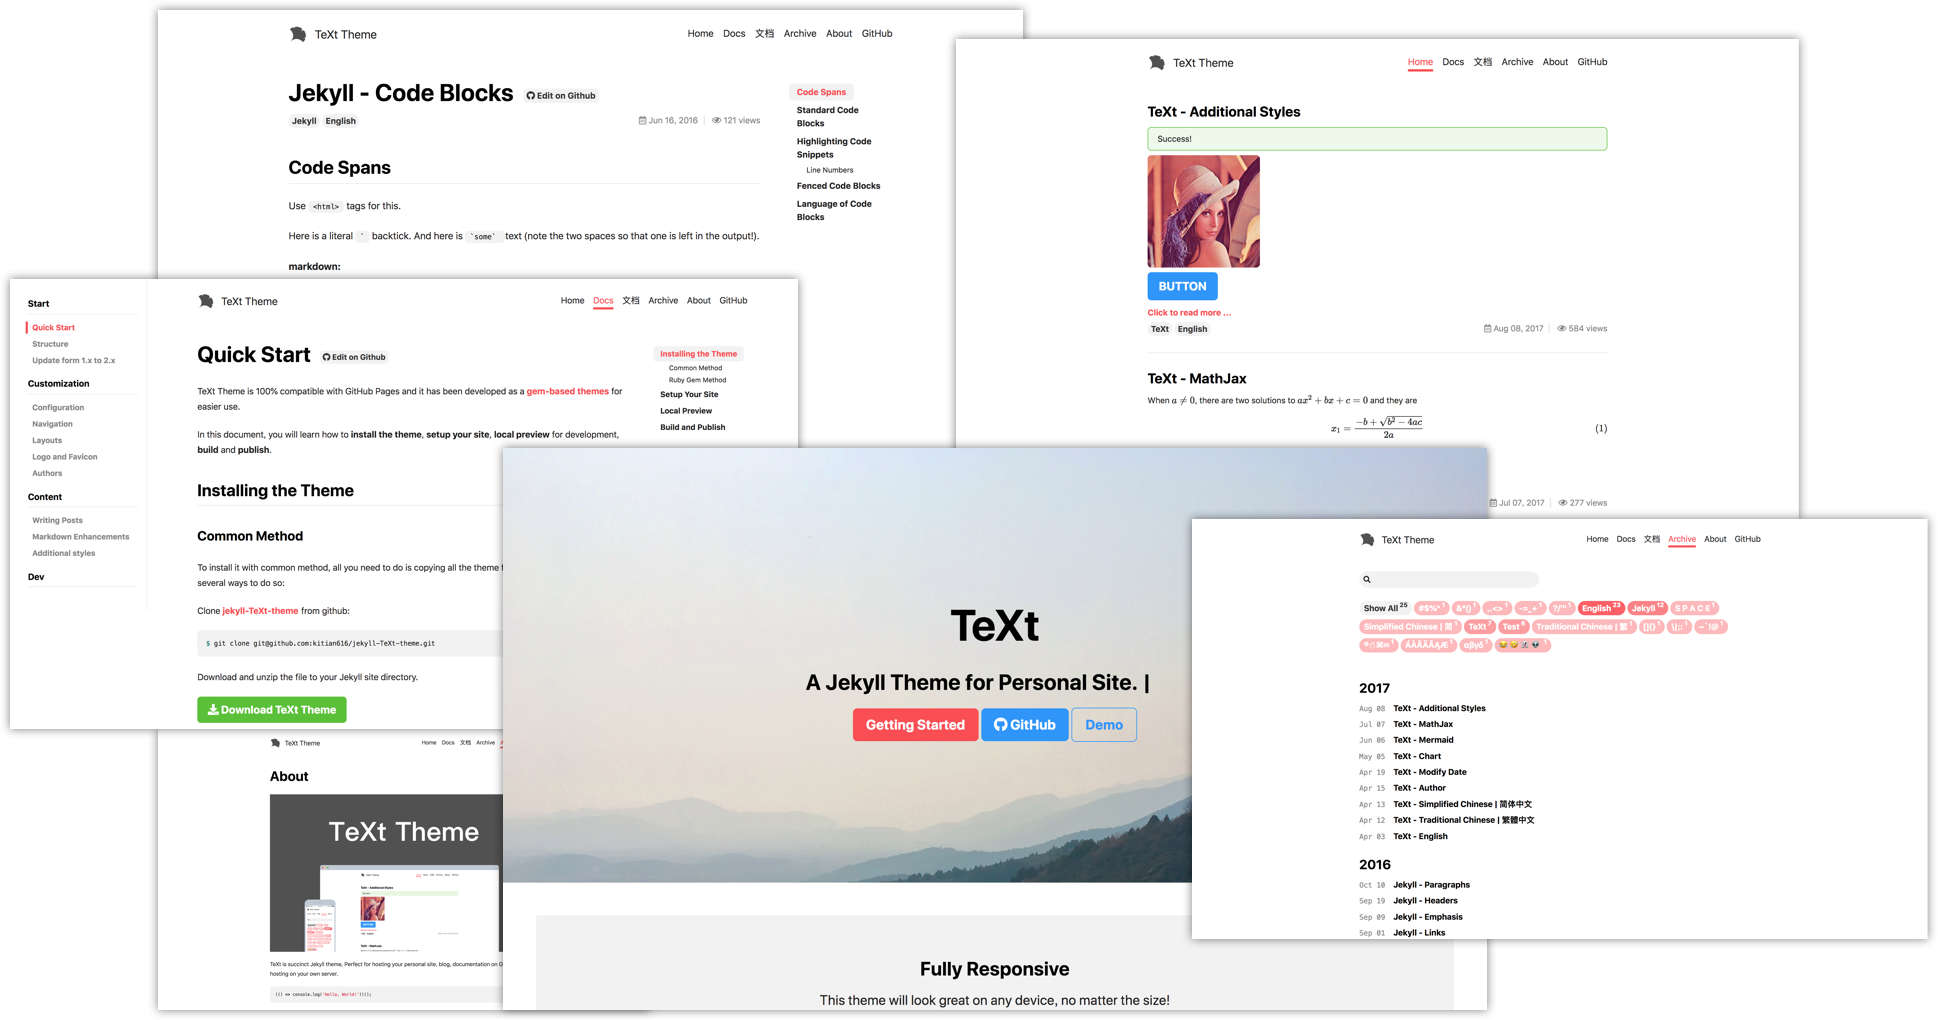
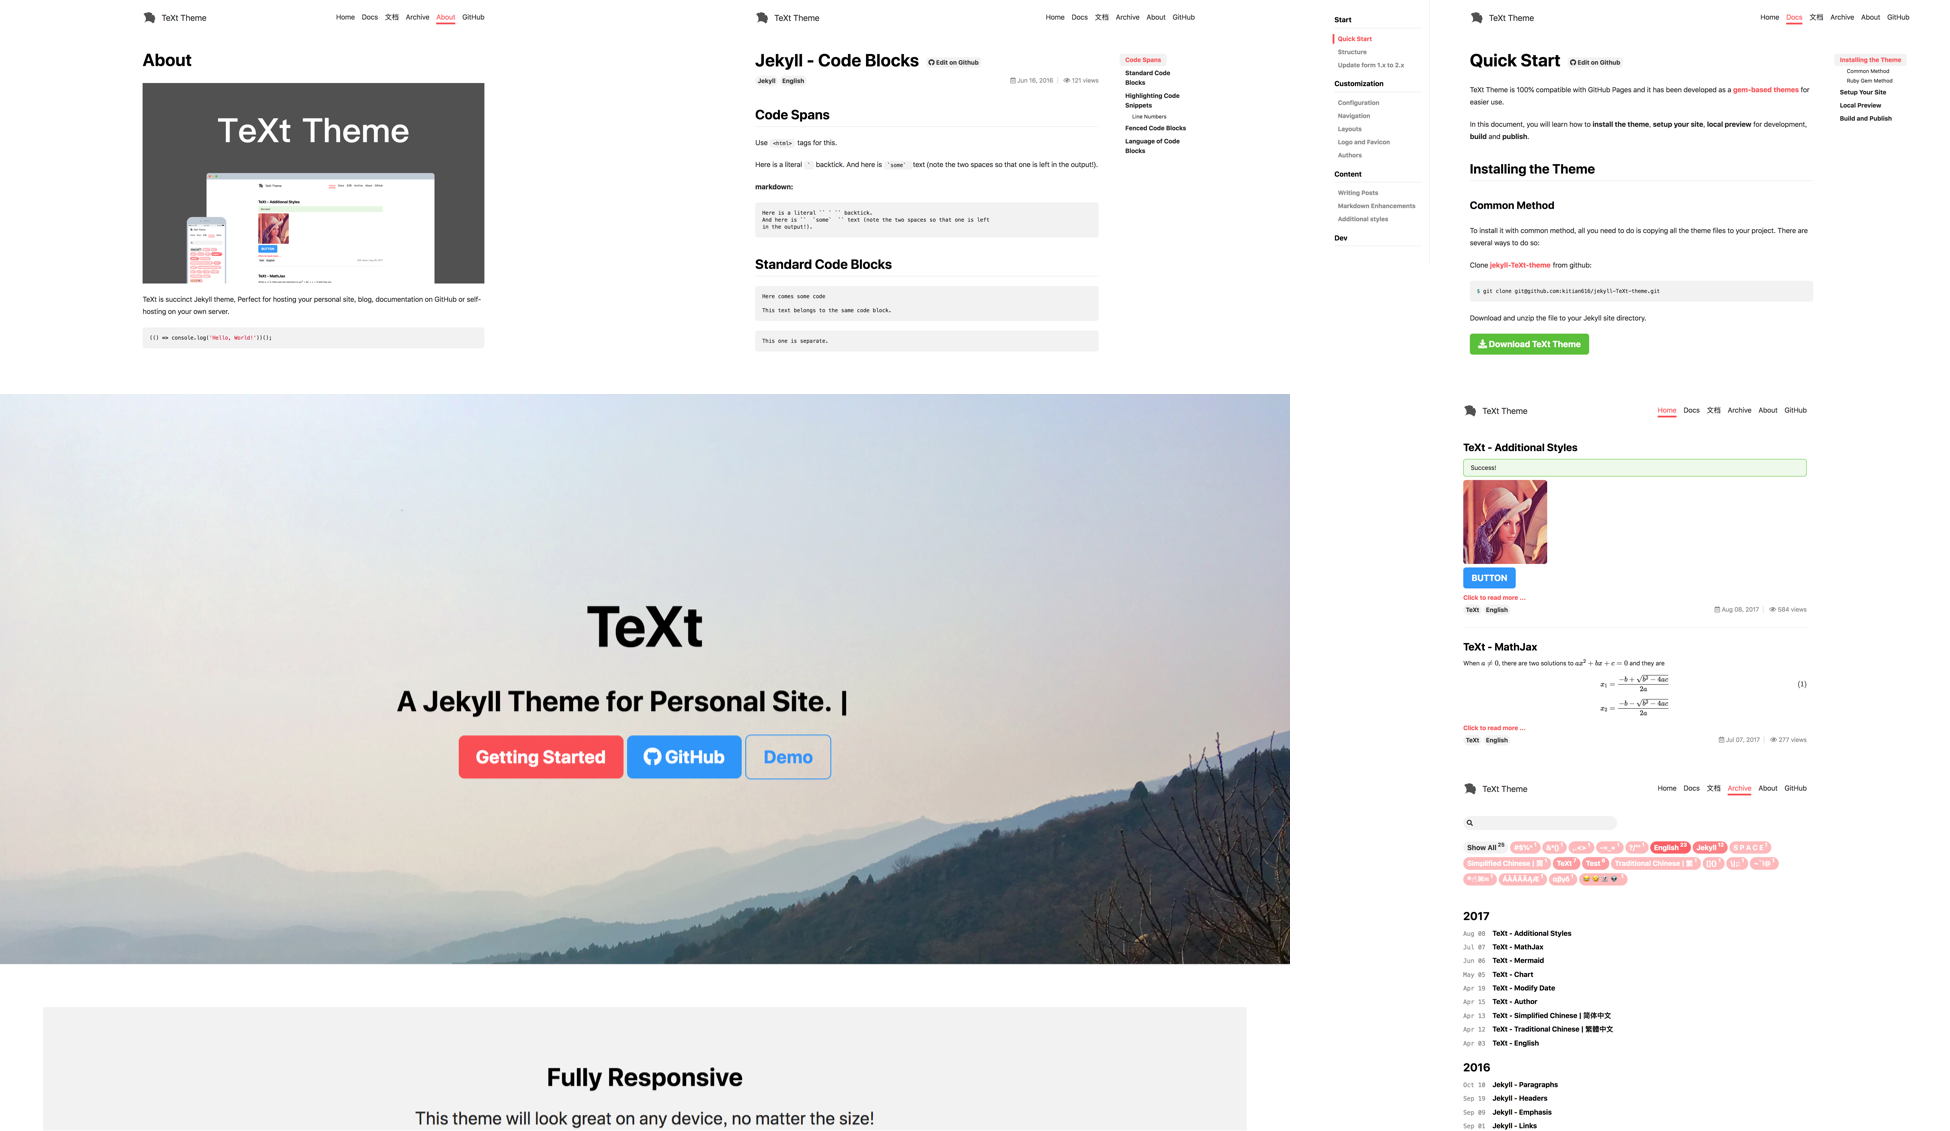
feat: update doc, landing page and copywriters

diff --git a/docs/landing.html b/docs/landing.html
@@ -11,8 +11,6 @@ data:
     - text: Getting Started
       type: primary
       url: /docs/en/quick-start
-    - text: '<i class="fab fa-github"></i> GitHub'
-      url: https://github.com/kitian616/jekyll-TeXt-theme
     - text: Demo
       type: outline-info
       url: /test/
@@ -49,6 +47,9 @@ data:
               url: /docs/en/markdown-enhancements
     - title: 100% Free
       description: Free to use however you want under the MIT License. Clone it, fork it, customize it, whatever!
+      actions:
+        - text: '<i class="fab fa-github"></i> GitHub'
+          url: https://github.com/kitian616/jekyll-TeXt-theme
     - title: Tip Me
       children:
         - title: 'WeChat <i class="fas fa-arrow-down"></i>'

diff --git a/test/_posts/2017-08-08-additional-styles.md b/test/_posts/2017-08-08-additional-styles.md
@@ -10,9 +10,34 @@ toc: true
 Success!
 {:.success}
 
-![Lenna](https://raw.githubusercontent.com/kitian616/jekyll-TeXt-theme/master/test/assets/images/lenna.jpg "Lenna_rounded"){:.rounded}
 
-[BUTTON](#){:.button.button--info.button--rounded.button--lg}
+<div class="grid">
+<div class="row">
+<div class="col-4 col-md-5 col-sm-12" markdown="1">
+![Lenna](https://raw.githubusercontent.com/kitian616/jekyll-TeXt-theme/master/test/assets/images/lenna.jpg "Lenna_rounded"){:.rounded}
+</div>
+<div class="col-4 col-md-5 col-sm-12" markdown="1">
+![Lenna](https://raw.githubusercontent.com/kitian616/jekyll-TeXt-theme/master/test/assets/images/lenna.jpg "Lenna_rounded"){:.circle.shadow}
+</div>
+</div>
+</div>
+
+<div class="grid">
+<div class="row">
+<div class="col-2 col-md-4 col-sm-6">
+<div class="button button--primary button--pill my-2"><i class="fas fa-space-shuttle"></i> BUTTON</div>
+</div>
+<div class="col-2 col-md-4 col-sm-6">
+<div class="button button--outline-info button--pill my-2"><i class="fas fa-space-shuttle"></i> BUTTON</div>
+</div>
+<div class="col-2 col-md-4 col-sm-6">
+<div class="button button--success button--rounded my-2"><i class="fas fa-user-astronaut"></i> BUTTON</div>
+</div>
+<div class="col-2 col-md-4 col-sm-6">
+<div class="button button--warning button--rounded my-2"><i class="fas fa-user-astronaut"></i> BUTTON</div>
+</div>
+</div>
+</div>
 
 <!--more-->
 
@@ -67,38 +92,238 @@ Error Text.
 
 ## Button
 
-| Primary | Secondary | Success | Info | Warning | Error |
-| ---- | ---- | ---- | ---- | ---- | ---- |
-| [BUTTON](#){:.button.button--primary.button--pill} | [BUTTON](#){:.button.button--secondary.button--pill} | [BUTTON](#){:.button.button--success.button--pill} | [BUTTON](#){:.button.button--info.button--pill} | [BUTTON](#){:.button.button--warning.button--pill} | [BUTTON](#){:.button.button--error.button--pill} |
+<div class="grid">
+<div class="row">
+<div style="text-align: center;" class="col-2 col-md-4 col-sm-6">
+<div class="mt-3"><strong>Primary</strong></div>
+<div class="button button--primary button--pill my-2">BUTTON</div>
+</div>
+<div style="text-align: center;" class="col-2 col-md-4 col-sm-6">
+<div class="mt-3"><strong>Secondary</strong></div>
+<div class="button button--secondary button--pill my-2">BUTTON</div>
+</div>
+<div style="text-align: center;" class="col-2 col-md-4 col-sm-6">
+<div class="mt-3"><strong>Success</strong></div>
+<div class="button button--success button--pill my-2">BUTTON</div>
+</div>
+<div style="text-align: center;" class="col-2 col-md-4 col-sm-6">
+<div class="mt-3"><strong>Info</strong></div>
+<div class="button button--info button--pill my-2">BUTTON</div>
+</div>
+<div style="text-align: center;" class="col-2 col-md-4 col-sm-6">
+<div class="mt-3"><strong>Warning</strong></div>
+<div class="button button--warning button--pill my-2">BUTTON</div>
+</div>
+<div style="text-align: center;" class="col-2 col-md-4 col-sm-6">
+<div class="mt-3"><strong>Error</strong></div>
+<div class="button button--error button--pill my-2">BUTTON</div>
+</div>
+</div>
+</div>
 
-| Primary | Secondary | Success | Info | Warning | Error |
-| ---- | ---- | ---- | ---- | ---- | ---- |
-| [BUTTON](#){:.button.button--outline-primary.button--pill} | [BUTTON](#){:.button.button--outline-secondary.button--pill} | [BUTTON](#){:.button.button--outline-success.button--pill} | [BUTTON](#){:.button.button--outline-info.button--pill} | [BUTTON](#){:.button.button--outline-warning.button--pill} | [BUTTON](#){:.button.button--outline-error.button--pill} |
+<div class="grid">
+<div class="row">
+<div style="text-align: center;" class="col-2 col-md-4 col-sm-6">
+<div class="mt-3"><strong>Primary</strong></div>
+<div class="button button--outline-primary button--pill my-2">BUTTON</div>
+</div>
+<div style="text-align: center;" class="col-2 col-md-4 col-sm-6">
+<div class="mt-3"><strong>Secondary</strong></div>
+<div class="button button--outline-secondary button--pill my-2">BUTTON</div>
+</div>
+<div style="text-align: center;" class="col-2 col-md-4 col-sm-6">
+<div class="mt-3"><strong>Success</strong></div>
+<div class="button button--outline-success button--pill my-2">BUTTON</div>
+</div>
+<div style="text-align: center;" class="col-2 col-md-4 col-sm-6">
+<div class="mt-3"><strong>Info</strong></div>
+<div class="button button--outline-info button--pill my-2">BUTTON</div>
+</div>
+<div style="text-align: center;" class="col-2 col-md-4 col-sm-6">
+<div class="mt-3"><strong>Warning</strong></div>
+<div class="button button--outline-warning button--pill my-2">BUTTON</div>
+</div>
+<div style="text-align: center;" class="col-2 col-md-4 col-sm-6">
+<div class="mt-3"><strong>Error</strong></div>
+<div class="button button--outline-error button--pill my-2">BUTTON</div>
+</div>
+</div>
+</div>
 
-| Primary | Secondary | Success | Info | Warning | Error |
-| ---- | ---- | ---- | ---- | ---- | ---- |
-| [BUTTON](#){:.button.button--primary.button--rounded} | [BUTTON](#){:.button.button--secondary.button--rounded} | [BUTTON](#){:.button.button--success.button--rounded} | [BUTTON](#){:.button.button--info.button--rounded} | [BUTTON](#){:.button.button--warning.button--rounded} | [BUTTON](#){:.button.button--error.button--rounded} |
+<div class="grid">
+<div class="row">
+<div style="text-align: center;" class="col-2 col-md-4 col-sm-6">
+<div class="mt-3"><strong>Primary</strong></div>
+<div class="button button--primary button--rounded my-2">BUTTON</div>
+</div>
+<div style="text-align: center;" class="col-2 col-md-4 col-sm-6">
+<div class="mt-3"><strong>Secondary</strong></div>
+<div class="button button--secondary button--rounded my-2">BUTTON</div>
+</div>
+<div style="text-align: center;" class="col-2 col-md-4 col-sm-6">
+<div class="mt-3"><strong>Success</strong></div>
+<div class="button button--success button--rounded my-2">BUTTON</div>
+</div>
+<div style="text-align: center;" class="col-2 col-md-4 col-sm-6">
+<div class="mt-3"><strong>Info</strong></div>
+<div class="button button--info button--rounded my-2">BUTTON</div>
+</div>
+<div style="text-align: center;" class="col-2 col-md-4 col-sm-6">
+<div class="mt-3"><strong>Warning</strong></div>
+<div class="button button--warning button--rounded my-2">BUTTON</div>
+</div>
+<div style="text-align: center;" class="col-2 col-md-4 col-sm-6">
+<div class="mt-3"><strong>Error</strong></div>
+<div class="button button--error button--rounded my-2">BUTTON</div>
+</div>
+</div>
+</div>
 
-| Primary | Secondary | Success | Info | Warning | Error |
-| ---- | ---- | ---- | ---- | ---- | ---- |
-| [BUTTON](#){:.button.button--outline-primary.button--rounded} | [BUTTON](#){:.button.button--outline-secondary.button--rounded} | [BUTTON](#){:.button.button--outline-success.button--rounded} | [BUTTON](#){:.button.button--outline-info.button--rounded} | [BUTTON](#){:.button.button--outline-warning.button--rounded} | [BUTTON](#){:.button.button--outline-error.button--rounded} |
+<div class="grid">
+<div class="row">
+<div style="text-align: center;" class="col-2 col-md-4 col-sm-6">
+<div class="mt-3"><strong>Primary</strong></div>
+<div class="button button--outline-primary button--rounded my-2">BUTTON</div>
+</div>
+<div style="text-align: center;" class="col-2 col-md-4 col-sm-6">
+<div class="mt-3"><strong>Secondary</strong></div>
+<div class="button button--outline-secondary button--rounded my-2">BUTTON</div>
+</div>
+<div style="text-align: center;" class="col-2 col-md-4 col-sm-6">
+<div class="mt-3"><strong>Success</strong></div>
+<div class="button button--outline-success button--rounded my-2">BUTTON</div>
+</div>
+<div style="text-align: center;" class="col-2 col-md-4 col-sm-6">
+<div class="mt-3"><strong>Info</strong></div>
+<div class="button button--outline-info button--rounded my-2">BUTTON</div>
+</div>
+<div style="text-align: center;" class="col-2 col-md-4 col-sm-6">
+<div class="mt-3"><strong>Warning</strong></div>
+<div class="button button--outline-warning button--rounded my-2">BUTTON</div>
+</div>
+<div style="text-align: center;" class="col-2 col-md-4 col-sm-6">
+<div class="mt-3"><strong>Error</strong></div>
+<div class="button button--outline-error button--rounded my-2">BUTTON</div>
+</div>
+</div>
+</div>
 
-| Primary | Secondary | Success | Info | Warning | Error |
-| ---- | ---- | ---- | ---- | ---- | ---- |
-| [X](#){:.button.button--primary.button--circle} | [X](#){:.button.button--secondary.button--circle} | [X](#){:.button.button--success.button--circle} | [X](#){:.button.button--info.button--circle} | [X](#){:.button.button--warning.button--circle} | [X](#){:.button.button--error.button--circle} |
+<div class="grid">
+<div class="row">
+<div style="text-align: center;" class="col-2 col-md-4 col-sm-6">
+<div class="mt-3"><strong>Primary</strong></div>
+<div class="button button--primary button--circle my-2 mx-auto">X</div>
+</div>
+<div style="text-align: center;" class="col-2 col-md-4 col-sm-6">
+<div class="mt-3"><strong>Secondary</strong></div>
+<div class="button button--secondary button--circle my-2 mx-auto">X</div>
+</div>
+<div style="text-align: center;" class="col-2 col-md-4 col-sm-6">
+<div class="mt-3"><strong>Success</strong></div>
+<div class="button button--success button--circle my-2 mx-auto">X</div>
+</div>
+<div style="text-align: center;" class="col-2 col-md-4 col-sm-6">
+<div class="mt-3"><strong>Info</strong></div>
+<div class="button button--info button--circle my-2 mx-auto">X</div>
+</div>
+<div style="text-align: center;" class="col-2 col-md-4 col-sm-6">
+<div class="mt-3"><strong>Warning</strong></div>
+<div class="button button--warning button--circle my-2 mx-auto">X</div>
+</div>
+<div style="text-align: center;" class="col-2 col-md-4 col-sm-6">
+<div class="mt-3"><strong>Error</strong></div>
+<div class="button button--error button--circle my-2 mx-auto">X</div>
+</div>
+</div>
+</div>
 
-| Primary | Secondary | Success | Info | Warning | Error |
-| ---- | ---- | ---- | ---- | ---- | ---- |
-| [X](#){:.button.button--outline-primary.button--circle} | [X](#){:.button.button--outline-secondary.button--circle} | [X](#){:.button.button--outline-success.button--circle} | [X](#){:.button.button--outline-info.button--circle} | [X](#){:.button.button--outline-warning.button--circle} | [X](#){:.button.button--outline-error.button--circle} |
+<div class="grid">
+<div class="row">
+<div style="text-align: center;" class="col-2 col-md-4 col-sm-6">
+<div class="mt-3"><strong>Primary</strong></div>
+<div class="button button--outline-primary button--circle my-2 mx-auto">X</div>
+</div>
+<div style="text-align: center;" class="col-2 col-md-4 col-sm-6">
+<div class="mt-3"><strong>Secondary</strong></div>
+<div class="button button--outline-secondary button--circle my-2 mx-auto">X</div>
+</div>
+<div style="text-align: center;" class="col-2 col-md-4 col-sm-6">
+<div class="mt-3"><strong>Success</strong></div>
+<div class="button button--outline-success button--circle my-2 mx-auto">X</div>
+</div>
+<div style="text-align: center;" class="col-2 col-md-4 col-sm-6">
+<div class="mt-3"><strong>Info</strong></div>
+<div class="button button--outline-info button--circle my-2 mx-auto">X</div>
+</div>
+<div style="text-align: center;" class="col-2 col-md-4 col-sm-6">
+<div class="mt-3"><strong>Warning</strong></div>
+<div class="button button--outline-warning button--circle my-2 mx-auto">X</div>
+</div>
+<div style="text-align: center;" class="col-2 col-md-4 col-sm-6">
+<div class="mt-3"><strong>Error</strong></div>
+<div class="button button--outline-error button--circle my-2 mx-auto">X</div>
+</div>
+</div>
+</div>
 
-| Small | Middle | Large |
-| ---- | ---- | ---- |
-| [BUTTON](#){:.button.button--secondary.button--pill.button--sm} | [BUTTON](#){:.button.button--secondary.button--pill.button--md} | [BUTTON](#){:.button.button--secondary.button--pill.button--lg} |
-| [BUTTON](#){:.button.button--secondary.button--rounded.button--sm} | [BUTTON](#){:.button.button--secondary.button--rounded.button--md} | [BUTTON](#){:.button.button--secondary.button--rounded.button--lg} |
-| [X](#){:.button.button--secondary.button--circle.button--sm} | [X](#){:.button.button--secondary.button--circle.button--md} | [X](#){:.button.button--secondary.button--circle.button--lg} |
+
+
+
+<div class="grid">
+<div class="row">
+<div style="text-align: center;" class="col-2 col-md-4 col-sm-6">
+<div class="mt-3"><strong>Large</strong></div>
+<div class="button button--secondary button--pill button--lg my-2">BUTTON</div>
+</div>
+<div style="text-align: center;" class="col-2 col-md-4 col-sm-6">
+<div class="mt-3"><strong>Middle</strong></div>
+<div class="button button--secondary button--pill my-2">BUTTON</div>
+</div>
+<div style="text-align: center;" class="col-2 col-md-4 col-sm-6">
+<div class="mt-3"><strong>Small</strong></div>
+<div class="button button--secondary button--pill button--sm my-2">BUTTON</div>
+</div>
+</div>
+</div>
+
+<div class="grid">
+<div class="row">
+<div style="text-align: center;" class="col-2 col-md-4 col-sm-6">
+<div class="mt-3"><strong>Large</strong></div>
+<div class="button button--secondary button--rounded button--lg my-2">BUTTON</div>
+</div>
+<div style="text-align: center;" class="col-2 col-md-4 col-sm-6">
+<div class="mt-3"><strong>Middle</strong></div>
+<div class="button button--secondary button--rounded my-2">BUTTON</div>
+</div>
+<div style="text-align: center;" class="col-2 col-md-4 col-sm-6">
+<div class="mt-3"><strong>Small</strong></div>
+<div class="button button--secondary button--rounded button--sm my-2">BUTTON</div>
+</div>
+</div>
+</div>
+
+<div class="grid">
+<div class="row">
+<div style="text-align: center;" class="col-2 col-md-4 col-sm-6">
+<div class="mt-3"><strong>Large</strong></div>
+<div class="button button--secondary button--circle button--lg my-2 mx-auto">X</div>
+</div>
+<div style="text-align: center;" class="col-2 col-md-4 col-sm-6">
+<div class="mt-3"><strong>Middle</strong></div>
+<div class="button button--secondary button--circle my-2 mx-auto">X</div>
+</div>
+<div style="text-align: center;" class="col-2 col-md-4 col-sm-6">
+<div class="mt-3"><strong>Small</strong></div>
+<div class="button button--secondary button--circle button--sm my-2 mx-auto">X</div>
+</div>
+</div>
+</div>
 
 ## Font Awesome
 
-<i class="fas fa-download"></i>
+<i class="fas fa-space-shuttle"></i>
 
-<a class="button button--success button--rounded button--lg" href="#"><i class="fas fa-download"></i> Download TeXt Theme</a>
+<i class="fas fa-user-astronaut"></i>
+
+<div class="button button--success button--rounded button--lg"><i class="fas fa-download"></i> Download TeXt Theme</div>

diff --git a/about.md b/about.md
@@ -11,7 +11,7 @@ key: page-about
 
 ![TeXt Theme](https://raw.githubusercontent.com/kitian616/jekyll-TeXt-theme/master/screenshots/TeXt-home.png)
 
-TeXt is succinct Jekyll theme, Perfect for hosting your personal site, blog, documentation on GitHub or self-hosting on your own server.
+TeXt is a Jekyll theme for personal site, team site, blog, project, documentation, etc. Similar to iOS 11 style, it has large and prominent titles, round buttons and cards.
 
 ```javascript
 (() => console.log('Hello, World!'))();
@@ -20,23 +20,20 @@ TeXt is succinct Jekyll theme, Perfect for hosting your personal site, blog, doc
 ## Features
 
 - Responsive
-- Paginate ([jekyll-paginate](https://github.com/jekyll/jekyll-paginate))
-- Table of contents
-- Tag
-- Search
-- Page views ([LeanCloud](https://leancloud.cn/))
-- Emoji ([Jemoji](https://github.com/jekyll/jemoji))
-- Comments ([Disqus](https://disqus.com/))
-- Google Analytics
-- Contact information (Email, Facebook, Twitter, Linkedin, Weibo, Zhihu, etc)
-- Semantic HTML
-- Icon automation tool ([gulp-svg2png](https://www.npmjs.com/package/gulp-svg2png), [gulp-to-ico](https://www.npmjs.com/package/gulp-to-ico))
 - Skins
+- Table of contents
+- Authors
+- Multi-language support(English, Simplified Chinese, Traditional Chinese)
+- Search
+- Semantic HTML
+- RSS（[jekyll-feed](https://github.com/jekyll/jekyll-feed))
+- Contact information (Email, Facebook, Twitter, Linkedin, Weibo, Zhihu, etc)
 - Mathematical formula ([MathJax](https://www.mathjax.org/))
 - Flowchart, Sequence diagram, Gantt diagram ([mermaid](https://mermaidjs.github.io/))
 - Line Chart, Bar Chart, Radar Chart, Pie Chart ([chartjs](http://www.chartjs.org/))
-- RSS（[jekyll-feed](https://github.com/jekyll/jekyll-feed))
-- Multi-language support(English, Simplified Chinese, Traditional Chinese)
+- Page views ([LeanCloud](https://leancloud.cn/))
+- Comments ([Disqus](https://disqus.com/))
+- Google Analytics
 
 ## Skins
 

diff --git a/docs/en/2.2-navigation.md b/docs/en/2.2-navigation.md
@@ -34,4 +34,4 @@ header:
     url:        https://github.com/kitian616/jekyll-TeXt-theme
 ```
 
-You can ues `titles` for a multi-language name.
+You can use `titles` for a multi-language name.